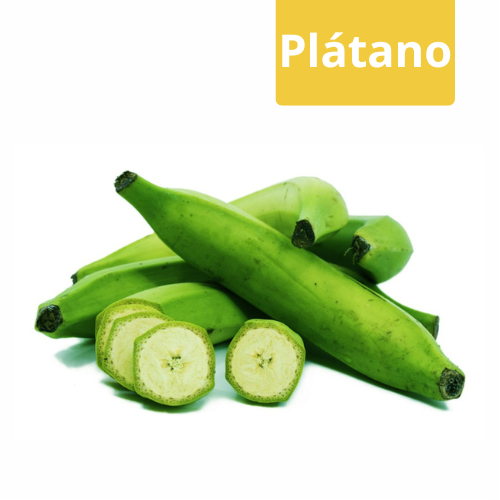
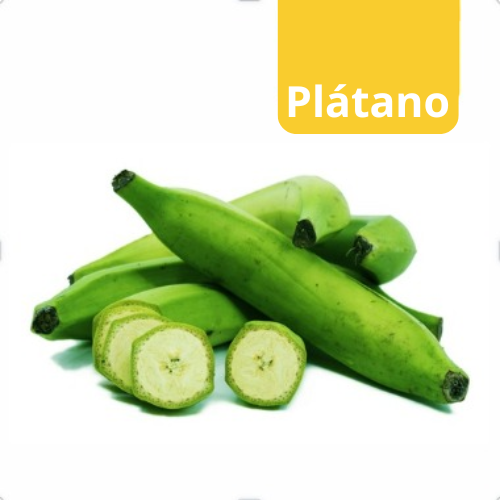
feat: Optimizar selector de idioma para móvil
- Simplificar LanguageSelector a solo bandera clickeable
- Mover selector fuera del menú hamburguesa en navbar móvil
- Implementar toggle directo entre ES/EN con un solo clic
- Reducir espacio ocupado en navbar móvil (40x40px)
- Mejorar UX con tooltip informativo
- Mantener accesibilidad con aria-labels apropiados
- Optimizar imágenes de productos para mejor rendimiento

diff --git a/src/components/LanguageSelector.tsx b/src/components/LanguageSelector.tsx
@@ -1,10 +1,9 @@
-import React, { useState } from 'react';
+import React from 'react';
 import { useLanguage } from '../contexts/LanguageContext';
 import type { Language } from '../contexts/LanguageContext';
 
 const LanguageSelector: React.FC = () => {
   const { language, setLanguage } = useLanguage();
-  const [isOpen, setIsOpen] = useState(false);
 
   const languages = [
     {
@@ -20,62 +19,23 @@ const LanguageSelector: React.FC = () => {
   ];
 
   const currentLanguage = languages.find(lang => lang.code === language);
+  const otherLanguage = languages.find(lang => lang.code !== language);
 
-  const handleLanguageChange = (langCode: Language) => {
-    setLanguage(langCode);
-    setIsOpen(false);
+  const handleLanguageToggle = () => {
+    if (otherLanguage) {
+      setLanguage(otherLanguage.code);
+    }
   };
 
   return (
-    <div className="relative">
-      <button
-        onClick={() => setIsOpen(!isOpen)}
-        className="flex items-center gap-2 px-3 py-2 rounded-lg bg-white/10 hover:bg-white/20 transition-colors duration-200 text-white"
-        aria-label="Select language"
-      >
-        <span className="text-lg">{currentLanguage?.flag}</span>
-        <span className="text-sm font-medium hidden sm:block">{currentLanguage?.name}</span>
-        <svg 
-          className={`w-4 h-4 transition-transform duration-200 ${isOpen ? 'rotate-180' : ''}`}
-          fill="none" 
-          stroke="currentColor" 
-          viewBox="0 0 24 24"
-        >
-          <path strokeLinecap="round" strokeLinejoin="round" strokeWidth={2} d="M19 9l-7 7-7-7" />
-        </svg>
-      </button>
-
-      {isOpen && (
-        <>
-          {/* Backdrop */}
-          <div 
-            className="fixed inset-0 z-10" 
-            onClick={() => setIsOpen(false)}
-          />
-          
-          {/* Dropdown */}
-          <div className="absolute right-0 mt-2 py-2 w-48 bg-white rounded-lg shadow-xl border border-gray-200 z-20">
-            {languages.map((lang) => (
-              <button
-                key={lang.code}
-                onClick={() => handleLanguageChange(lang.code)}
-                className={`flex items-center gap-3 w-full px-4 py-2 text-left hover:bg-gray-50 transition-colors duration-200 ${
-                  language === lang.code ? 'bg-gray-100 text-red-600' : 'text-gray-700'
-                }`}
-              >
-                <span className="text-lg">{lang.flag}</span>
-                <span className="font-medium">{lang.name}</span>
-                {language === lang.code && (
-                  <svg className="w-4 h-4 ml-auto text-red-600" fill="currentColor" viewBox="0 0 20 20">
-                    <path fillRule="evenodd" d="M16.707 5.293a1 1 0 010 1.414l-8 8a1 1 0 01-1.414 0l-4-4a1 1 0 011.414-1.414L8 12.586l7.293-7.293a1 1 0 011.414 0z" clipRule="evenodd" />
-                  </svg>
-                )}
-              </button>
-            ))}
-          </div>
-        </>
-      )}
-    </div>
+    <button
+      onClick={handleLanguageToggle}
+      className="flex items-center justify-center w-10 h-10 rounded-lg bg-gray-100 hover:bg-gray-200 transition-colors duration-200 text-gray-700 border border-gray-300"
+      aria-label={`Cambiar idioma a ${otherLanguage?.name}`}
+      title={`Cambiar a ${otherLanguage?.name}`}
+    >
+      <span className="text-xl">{currentLanguage?.flag}</span>
+    </button>
   );
 };
 

diff --git a/src/contexts/LanguageContext.tsx b/src/contexts/LanguageContext.tsx
@@ -52,8 +52,8 @@ const translations = {
     'products.banana.characteristics': 'Sabor dulce y suave,Textura cremosa,Libre de fibras,Presentación fresca y firme',
     
     'products.pineapple.name': 'Piña',
-    'products.pineapple.description': 'Experimente la dulzura excepcional de nuestra Piña Dorada MD2. Con un nivel de brix superior a 12 en la cosecha, esta fruta es increíblemente jugosa con una textura tierna y brillante y un aroma fresco y afrutado.',
-    'products.pineapple.characteristics': 'Brix superior a 12,Increíblemente jugosa,Textura tierna y brillante,Aroma fresco y afrutado',
+    'products.pineapple.description': 'Experimente la dulzura excepcional de nuestra Piña. Esta fruta es increíblemente jugosa con una textura tierna y brillante y un aroma fresco y afrutado.',
+    'products.pineapple.characteristics': 'Increíblemente jugosa,Textura tierna y brillante,Aroma fresco y afrutado',
     
     'products.plantain.name': 'Plátano Hartón',
     'products.plantain.description': 'Un alimento básico versátil, nuestros Plátanos Hartón son conocidos por su textura firme y sabor sutilmente dulce. Perfectos para una variedad de usos culinarios, se cosechan frescos y están libres de imperfecciones.',
@@ -192,8 +192,8 @@ const translations = {
     'products.banana.characteristics': 'Sweet and smooth flavor,Creamy texture,Fiber-free,Fresh and firm presentation',
     
     'products.pineapple.name': 'Pineapple',
-    'products.pineapple.description': 'Experience the exceptional sweetness of our Pineapple. With a brix level superior to 12 at harvest, this fruit is incredibly juicy with a tender, bright texture and fresh, fruity aroma.',
-    'products.pineapple.characteristics': 'Brix superior to 12,Incredibly juicy,Tender and bright texture,Fresh and fruity aroma',
+    'products.pineapple.description': 'Experience the exceptional sweetness of our Pineapple. This fruit is incredibly juicy with a tender, bright texture and fresh, fruity aroma.',
+    'products.pineapple.characteristics': 'Tender and bright texture,Fresh and fruity aroma',
     
     'products.plantain.name': 'Hartón Plantain',
     'products.plantain.description': 'A versatile staple, our Hartón Plantains are known for their firm texture and subtly sweet flavor. Perfect for a variety of culinary uses, harvested fresh and free from imperfections.',

diff --git a/src/components/Navbar.tsx b/src/components/Navbar.tsx
@@ -55,8 +55,9 @@ const Navbar = () => {
             </a>
           </div>
 
-          {/* Mobile menu button */}
-          <div className="md:hidden">
+          {/* Mobile Language Selector & Menu button */}
+          <div className="md:hidden flex items-center space-x-2">
+            <LanguageSelector />
             <button
               onClick={() => setIsMenuOpen(!isMenuOpen)}
               className="inline-flex items-center justify-center p-2 rounded-md text-gray-700 hover:text-red-600 hover:bg-gray-100 focus:outline-none focus:ring-2 focus:ring-inset focus:ring-red-500"
@@ -120,19 +121,16 @@ const Navbar = () => {
                 {t('nav.products')}
               </motion.a>
               <motion.div 
-                className="pt-2 space-y-2"
+                className="pt-2"
                 initial={{ opacity: 0 }}
                 animate={{ opacity: 1 }}
                 transition={{ duration: 0.3, delay: 0.5 }}
               >
-                <div className="px-3">
-                  <LanguageSelector />
-                </div>
                 <motion.a 
                   href={whatsappUrl} 
                   target="_blank" 
                   rel="noopener noreferrer" 
-                  className="btn-whatsapp btn-enhanced w-full justify-center"
+                  className="btn-whatsapp btn-enhanced w-full justify-center mx-3"
                   whileHover={{ scale: 1.02 }}
                   whileTap={{ scale: 0.98 }}
                 >

diff --git a/src/components/Hero.tsx b/src/components/Hero.tsx
@@ -67,7 +67,7 @@ const Hero = () => {
                   animate={{ opacity: 1, scale: 1 }}
                   transition={{ duration: 0.8, delay: 0.8 }}
                 >
-                  Premium
+                  de Primera Calidad
                 </motion.span>
                 <motion.span 
                   className="block"

diff --git a/src/components/HomeSections.tsx b/src/components/HomeSections.tsx
@@ -22,7 +22,7 @@ const HomeSections: React.FC = () => {
     },
     {
       id: 'plantain',
-      image: "/platano2.jpeg",
+      image: "/platano.png",
       scientificName: "Musa Paradisiaca",
       origin: "Colombia"
     },
